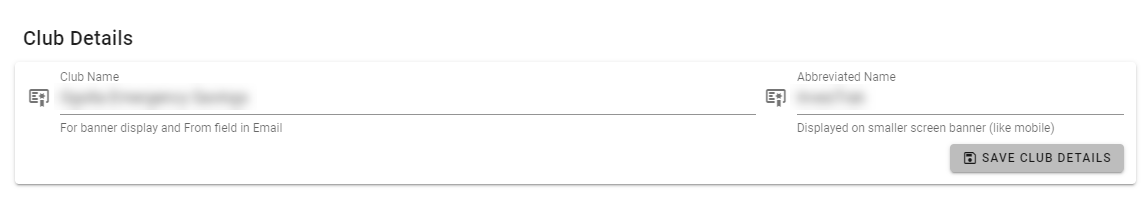
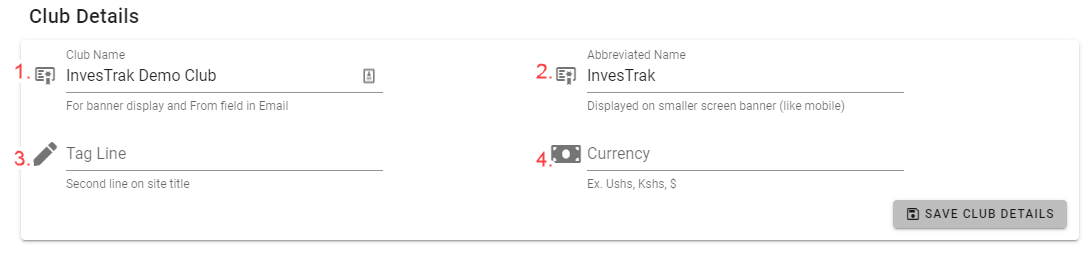
multiple continued updates

diff --git a/admin-modules/manage-savings.md b/admin-modules/manage-savings.md
@@ -1,0 +1,44 @@
+# Manage Savings
+!> This page can only be accessed by the `Admin`, `Treasurer` or member with the `finance_read_all` permission.
+
+This module provides the treasurer with the ability to be able to add contributions for members or to edit existing contributions.
+
+
+## Accessing the Manage Savings module
+
+If your account has the required authorization (Committee member or `finance_read_all` permission) you can access the manage savings module in one of two ways:
+
+1. Click on the three horizontal dot menu on the Savings page and select the `Manage Mode` option
+
+![alt text](../images/3.1.2_Manage_Savings_Page.png ":size=x100 Manage Savings page")
+
+2. Alternatively, you can access the module by clicking on the `Manage Savings` button located in the Quick menu in the [Top Banner arear](access-the-site/navigate-the-app?id=the-top-banner-area)
+
+![alt text](../images/3.2_Manage_savings_quick_menu.png ":size=x150 Manage Savings menu")
+
+
+The Manage Savings module page displays the list of member transactions, a section on savings totals and a section on the monthly chart of all contributions.
+
+![alt text](../images/3.3_Manage_Savings_Page.png ":size=x250 Manage Savings menu")
+
+## Edit Savings Transaction
+Click on a transaction to edit it. The `Edit Payment` dialog is displayed. The details of the fields on the dialog are as follows:
+ 1. `Account` - A drop down field to select the member account associated with the savings transaction
+ 1. `Transaction Date` - A text field to capture the date when the transaction happened.
+ 1. `Amount` - The cash amount for the transaction.
+ 1. `Ref Voucher` - This is a text field that is used by some club to attach a reference voucher to a transaction.
+ 1. `Description` - A memo field that is used to capture any additional free text information about the transaction.
+ 1. `Arrears` - This line will only appear if the [Track arrears](admin-modules/app-settings?id=system-will-track-arrears) setting is turned on. It indicates the amount that the member owes in arrears. Clicking on it will open the [Arrears](user-modules/arrears.md) module.
+
+![alt text](../images/3.3.1_Edit_Savings_Page.png ":size=x300 Edit Savings dialog")
+
+## Manage Savings options
+
+Click on the three horizontal dot menu on the Manage Savings page and select any of the following options:
+
+- `New Savings` option to create a new savings transaction
+- `New Withdrawal` option to create a new withdrawal transaction
+- `New Transfer` option to create a new transfer between two members
+- `Close Manage Mode` option to go back to the savings page
+  
+![alt text](../images/3.1.4_Manage_Savings_Menu.png ":size=x150 Manage Savings menu")

diff --git a/user-modules/arrears.md b/user-modules/arrears.md
@@ -1,0 +1,38 @@
+# Arrears Module
+ if the [Track arrears](admin-modules/app-settings?id=system-will-track-arrears) setting is turned on, the system automatically calculates and tracks how much each club member is supposed to pay every month. The expected amount is compared to the total amount that the member has contributed and if it is less then the club member is in arrears.
+
+!>**Note.** \
+For accurate calculation of arrears, every club member must have their [Participation Dates](admin-modules/member-accounts?id=participation-dates) correctly entered by the administrator. Additionally the [Expected Contributions](admin-modules/app-settings?id=expected-monthly-contributions) records must be accurately maintained.
+
+## Accessing the arrears module
+>**Note.** \
+>For the arrears module to be visible, the system must have the [Track arrears](admin-modules/app-settings?id=system-will-track-arrears) setting turned on. 
+
+The arrears for a member can be accessed in one of two ways:
+
+1. Click on the arrears link from the [Savings](user-modules/savings) page. 
+
+![alt text](../images/3.4_My_Arrears_Link.png ":size=x100 My arrears link")
+
+
+2. (Requires `finance_read_all` permissions). From the [Manage Savings](admin-modules/manage-savings.md) page do the following:
+    - Search for any transaction for the  member that you want to reveiew the arrears. 
+    - Click on the transaction to poen the [Edit Payment Dialog](admin-modules/manage-savings?id=edit-savings-transaction).
+    - Under the Transaction amount you will find the arrears link
+    
+![alt text](../images/3.3.2_Edit_Savings_Arrears.png ":size=x200 arrears link from edit savings")
+
+
+## Arrears Module Tabs
+
+### Arrears
+
+![alt text](../images/3.5_Arrears_Tab.png ":size=x300 Arrears Tab")
+
+### Allocations
+
+![alt text](../images/3.6_Allocations_Tab.png ":size=x300 Allocations Tab")
+
+`Allocations` are useful when a single large payment was made for an account. If the payment is larger than the [expected contribution](admin-modules/app-settings?id=expected-monthly-contributions) for the month, then it will be distributed for several months. The single payment is saved as one contribution. Allocations are then used to apportion the single contribution payment to different months.
+
+The system automatically handles the allocation of payments distrubted accross the months. You can use this tab to track how far ahead or behind the account is with expected payments.

diff --git a/admin-modules/manage-loans.md b/admin-modules/manage-loans.md
@@ -1,0 +1,32 @@
+# Manage Loans
+The Manage Loans  module is an extention of the [Loans](user-modules/loans.md) module. IT is used to perform additional functions like approving and disbursing loans.
+
+## Accessing the Manage Loans
+If your login has the required authorization (Committee Membership or `finance_read_all` permissions) then you will be able to access the module  in one of two ways:
+
+1. Click on the three horizontal dot menu on the Loans page and select the `Manage Mode` option
+
+![alt text](../images/4.6.1_Manage_Loans_menu.png ":size=x150 Manage Lonas menu")
+
+2. Alternatively, you can access the module by clicking on the `Manage Loans` button located in the Quick menu in the [Top Banner arear](access-the-site/navigate-the-app?id=the-top-banner-area)
+
+![alt text](../images/4.6.2_Manage_Loans_quick_menu.png ":size=x150 Manage Loans menu")
+
+The Manage Loans module page displays the list of individual loan applications and a section showing a chart of top borrowers.
+
+![alt text](../images/4.6.3_Manage_Loans_page.png ":size=x300 Manage Loans page")
+
+## Approving a loan
+!> This function can only be done by club committee
+
+After a member has submitted a loan request, an email notification will go out to all committee members. At least two committee members are required to approve the loan before it can be marked as approved. 
+
+
+
+## Disbursing a loan
+!> This function can only be done by club treasurer
+
+After a loan has been marked as approved, the treasurer will then disburse the loan. The process of disbursement will add the various transactions (loan amount as well as any of the applied interest, processing fees and/or insurance charges).
+
+>**Note** \
+After a lona has been disbursed all loan  records (including type, charges and guarantors) approval will become read-only

diff --git a/admin-modules/loan-settings.md b/admin-modules/loan-settings.md
@@ -7,11 +7,11 @@ To confgure the default options that are new loan will have
 
 ![alt text](../images/11.4_Loan_settings.png ":size=x300 Loan Settings")
 
-The following settings are availbale on how to manage loans:
+The following settings are available on how to manage loans:
 
 1. `Interest Type` - There are two interest types - `Compound Interest` and `Simple Interest`. The Interest applied to loans will be determined by the interst type of the loan.
 
-1. `Interest Rate` - This is the default Annual Percentage Rate (APR) that is applied to a loan. This setting only provides the default rate. The default rate can be changed for each individual loan by the loan committee or treasurer.
+1. `Interest Rate` - This is the default Interest rate that is applied to a loan. If the interest type is set to `Compound Interest` the interest rate will be Annual Percentage Rate (APR) calculated monthly.  This setting only provides the default rate. The default rate can be changed for each individual loan by the loan committee or treasurer.
 
 1. `Loan duration` - This is the default period in months for which a loan should be paid back.The default duration can be changed for each individual loan by the loan committee or treasurer.
 
@@ -27,7 +27,7 @@ Some club may have different types of loans that are offered to mem,bers based o
 ![alt text](../images/11.6_Loan_types.png ":size=x200 Loan Types")
 
 
-#3# Add or Edit a loan type
+### Add or Edit a loan type
 You can add a new loan type using the Add New Loan Type button on the top of the table. You can also edit a loan type by click on it from the table. Use the Edit Loan Type Form to edit and save your changes.
 
 ![alt text](../images/11.7_Edit_Loan_type.png ":size=x300 Edit Loan Types")

diff --git a/user-modules/savings.md b/user-modules/savings.md
@@ -14,11 +14,6 @@ The savings module page displays the list of individual transactions, a section 
 ![alt text](../images/3.1.1_Savings_Page.png ":size=x250 Savings page")
 
 
-## Accessing the manage savings module
-
-If your account has the required permissions yuu can access the manage savings module. Click on the three horizontal dot menu on the Savings page and select the `Manage Mode` option
-
-![alt text](../images/3.1.2_Manage_Savings_Page.png ":size=x150 Manage Savings page")
 
 
 ## Searching for a transaction
@@ -29,13 +24,4 @@ Use the search bar `Search Transactions` to find a particular transactions.Type 
 ![alt text](../images/3.1.3_Search_Savings_Page.png ":size=x300 Search Savings")
 
 
-## Manage Savings Transactions
 
-Click on the three horizontal dot menu on the Manage Savings page and select any of the following options:
-
-- `New Savings` option to create a new savings transaction
-- `New Withdrawal` option to create a new withdrawal transaction
-- `New Transfer` option to create a new transfer between two members
-- `Close Manage Mode` option to go back to the savings page
-  
-![alt text](../images/3.1.4_Manage_Savings_Menu.png ":size=x150 Manage Savings menu")

diff --git a/access-the-site/login.md b/access-the-site/login.md
@@ -4,9 +4,9 @@ To access the webpage and application, here is the URL:
 Replace the last part of the link (demo) with the name of your investment club
 
 ##	Logging In
-When you get to the InvesTrak site for the first time, or if you have been idle on the site for a while you will be redirected to the login page. The login page is the door between your website and the site. By logging in you confirm to the system who you are so that the content is provided to you securely.
+When you get to the InvesTrak site for the first time, or if you have been idle on the site for a while, you will be redirected to the login page. The login page is the door between your website and the site. By logging in you confirm your identity to the system, so that the content is provided to you securely.
 
-Lo in as show below.
+Log in as show below.
 <!-- tabs:start -->
 #### **Enter your credentials**
 

diff --git a/_sidebar.md b/_sidebar.md
@@ -6,9 +6,10 @@
     - [Navigating the Application](access-the-site/navigate-the-app.md)
     - [The Home Page](access-the-site/home-page.md)
 
-- Application Modules
+- User Modules
 
     - [Savings](user-modules/savings.md)
+    - [Arrears](user-modules/arrears.md)
     - [Loans](user-modules/loans.md)
     - [Documents](user-modules/documents.md)
     - [Fund Transactions](user-modules/fund-transactions.md)
@@ -17,6 +18,8 @@
 
 - Admin Modules
 
+    - [Manage Savings](admin-modules/manage-savings.md)
+    - [Manage Loans](admin-modules/manage-loans.md)
     - [Member Accounts](admin-modules/member-accounts.md)
     - [Finance Accounts](admin-modules/finance-accounts.md)
     - [Dividends](admin-modules/dividends.md)

diff --git a/admin-modules/app-settings.md b/admin-modules/app-settings.md
@@ -11,6 +11,10 @@ The `Club Details` is used to set  the name of the Club. The club name that is s
 
 1. `Abbreviated Name` - Will be name displayed on the top banner for smaller screens like mobile.
 
+1. `Tagline` - A short phrase that is used to represent the club's values.
+
+1. `Currency` - The currency symbol that will appear next to cash amounts.
+
 ## Expected Monthly Contributions
 
 !> **Caution** It is important that the administrator accurately records all `Expected Monthly Contribution` date ranges with no overlaps or gaps so that arrears and dues can be calculated correctly.

diff --git a/access-the-site/change-password.md b/access-the-site/change-password.md
@@ -1,5 +1,5 @@
 # Changing your password
-If you loose you password and you would like to reset it or you just want to change an old password you can use the steps outline below.
+If you loose you password and you would like to reset it or you just want to change an old password, you can use the steps outlined below.
 
 ##	Resetting lost password
 
